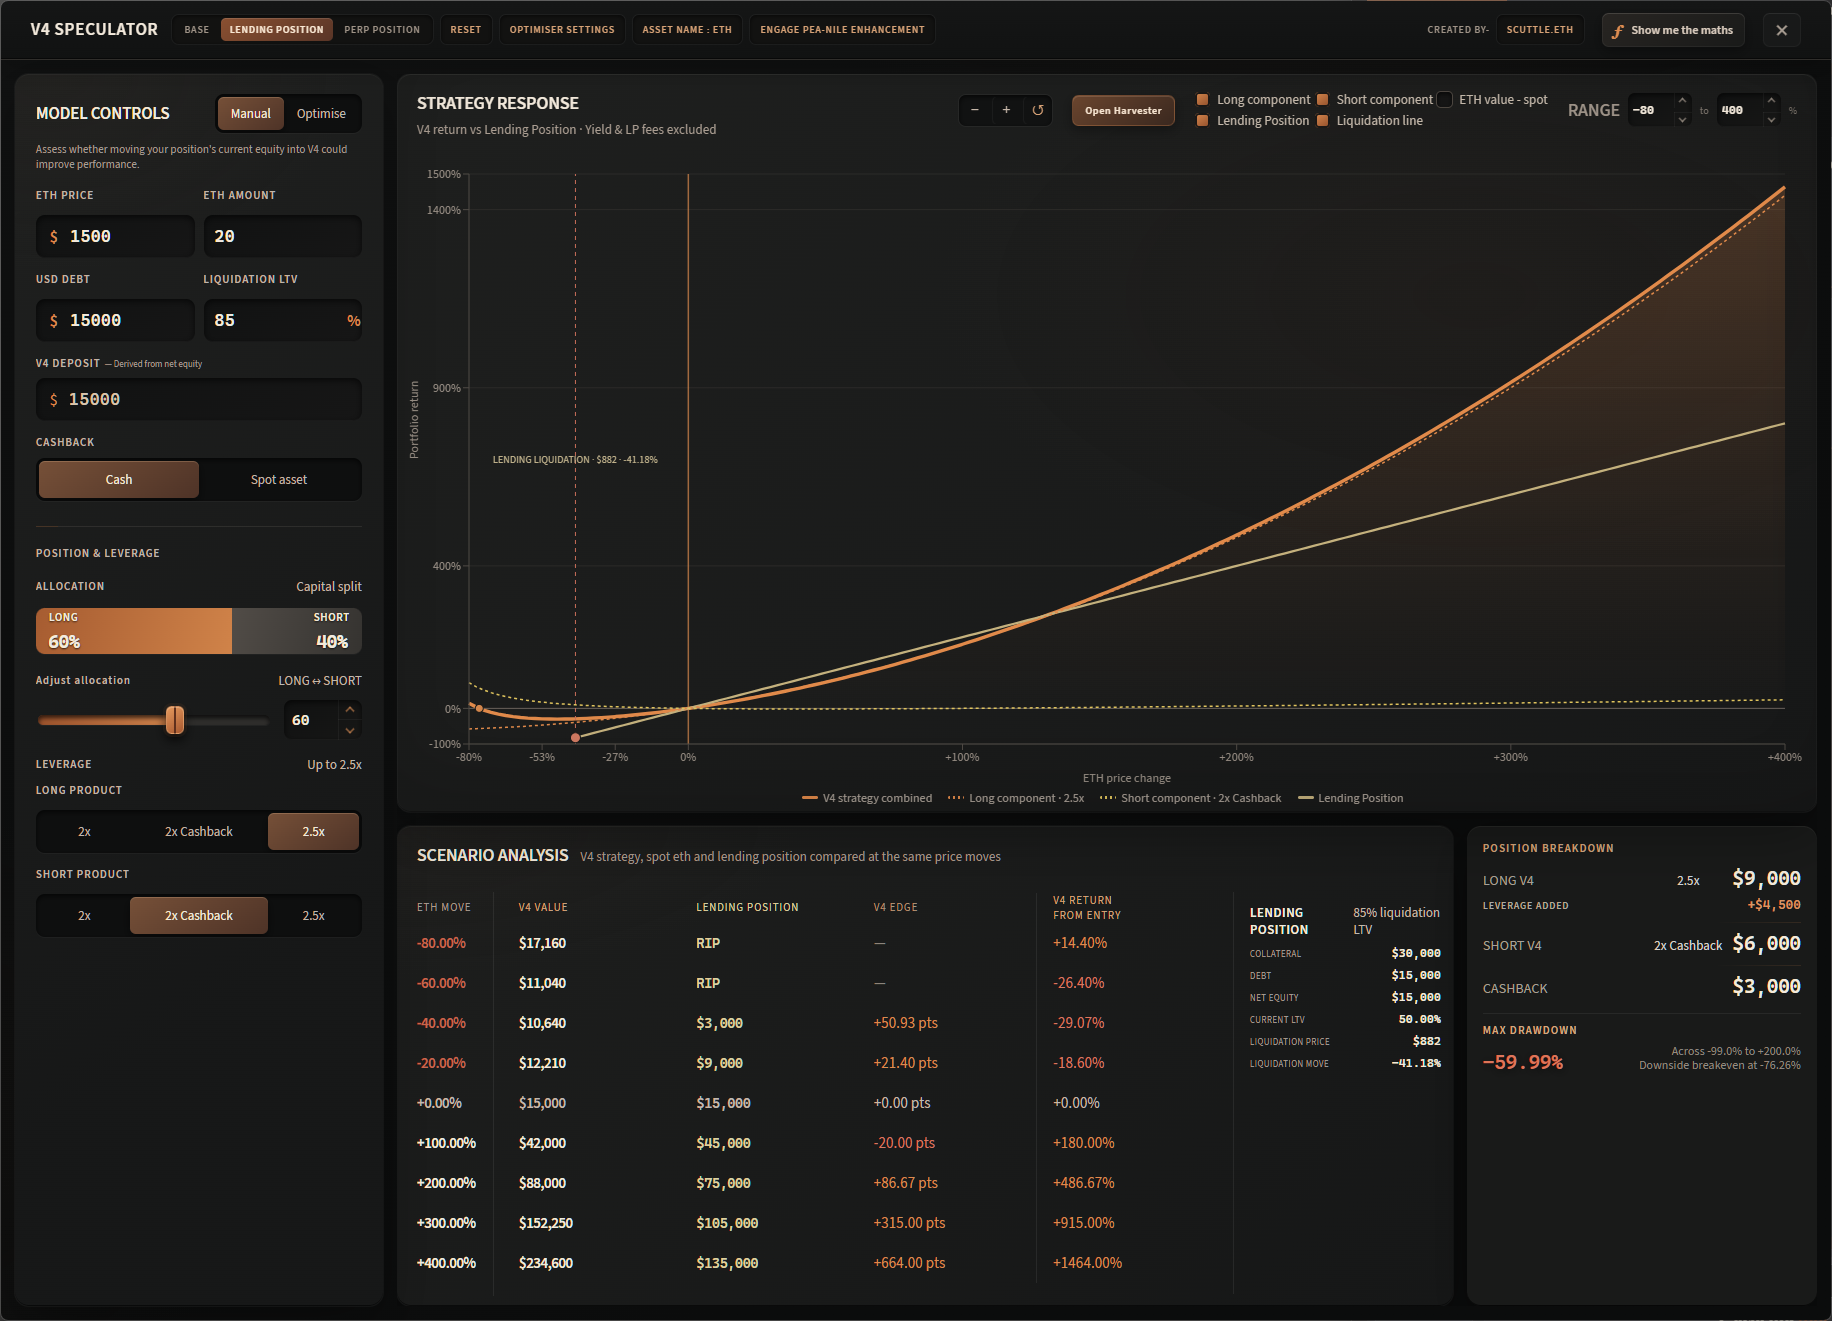
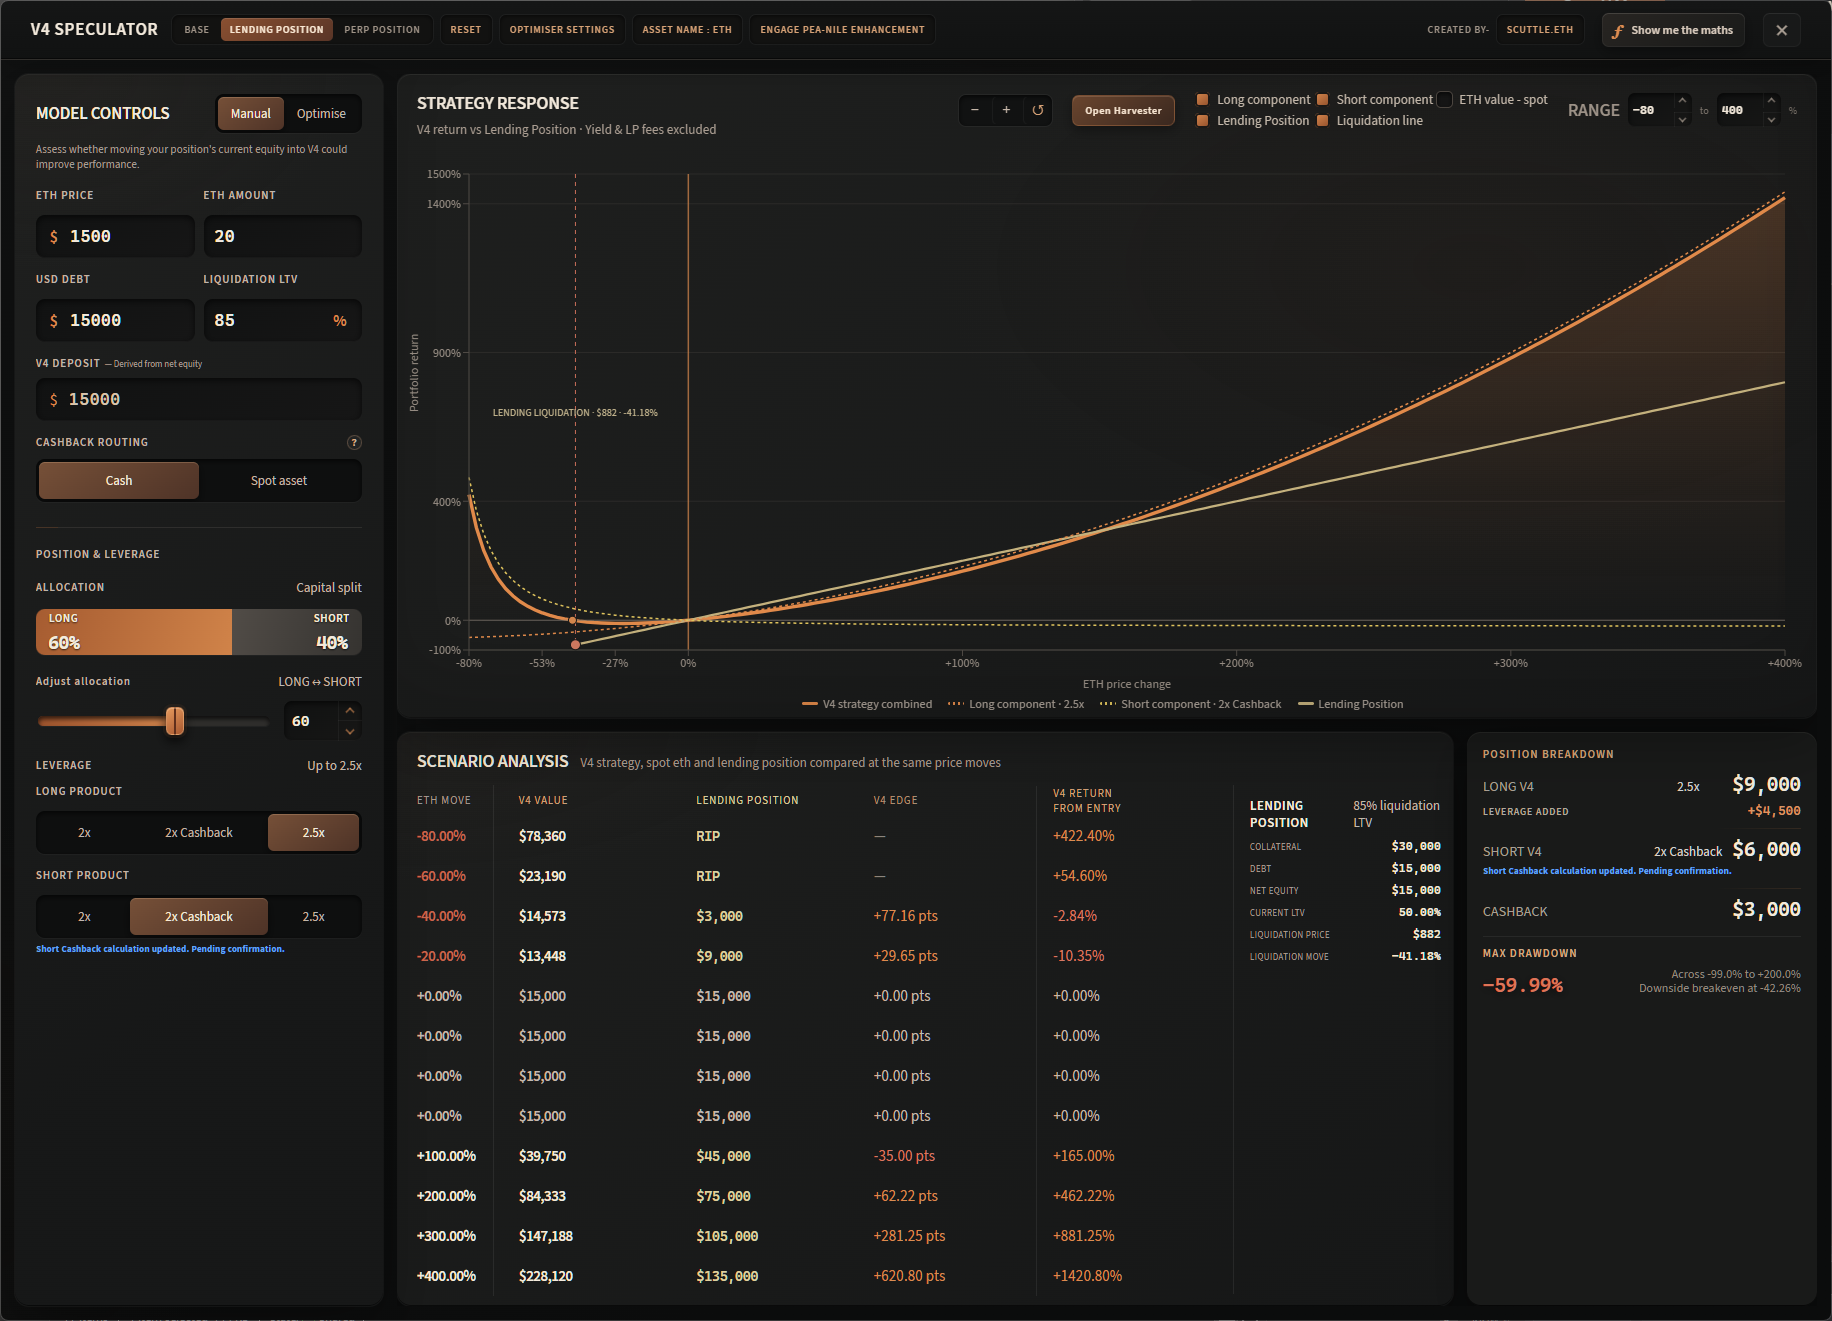
Replaced Lending Positions copy and images with updated Short Cashback material

diff --git a/index.html b/index.html
@@ -298,8 +298,8 @@
             <h4>The original position ends at $882. The V4 curve does not.</h4>
             <p>
               The lending position reaches liquidation after a 41.18% decline in ETH, fixing a hard endpoint for the trade.
-              The modelled V4 position remains active through the lower range, retaining $11,040 at −60% and rising to
-              $17,160 at −80% as the short component increasingly benefits from the deeper decline.
+    The modelled V4 position remains active through the lower range, reaching $23,190 at −60% and rising sharply to
+    $78,360 at −80% as the Short Cashback component increasingly benefits from the deeper decline.
             </p>
           </div>
           <figure>
@@ -320,9 +320,9 @@
             <p class="kicker">Accept a narrow trade-off</p>
             <h4>A modest early cost for a widening V4 edge.</h4>
             <p>
-              The defensive structure creates a modest cost on the earlier upside: at +100%, V4 is $42,000 versus
-              $45,000 in the lending position. By +200%, that gap has reversed; at +400%, V4 reaches $234,600 versus
-              $135,000, a $99,600 V4 edge.
+              The defensive structure creates a modest cost on the earlier upside: at +100%, V4 is $39,750 versus
+    $45,000 in the lending position. By +200%, V4 has moved ahead at $84,333 versus $75,000.
+    At +400%, V4 reaches $228,120 versus $135,000, a $93,120 V4 edge.
             </p>
           </div>
           <figure>
